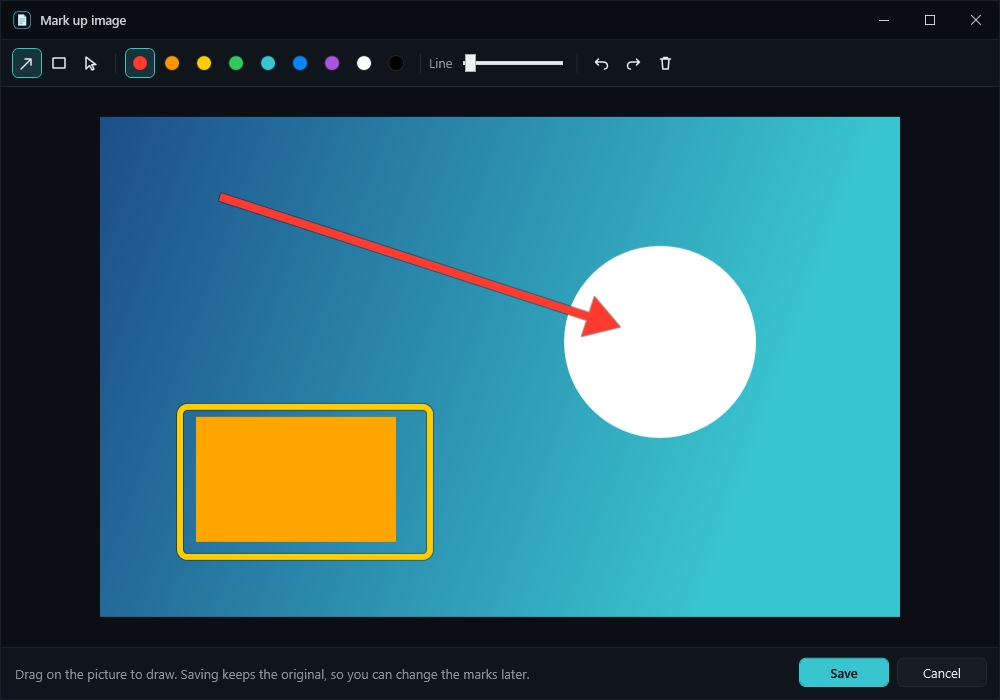
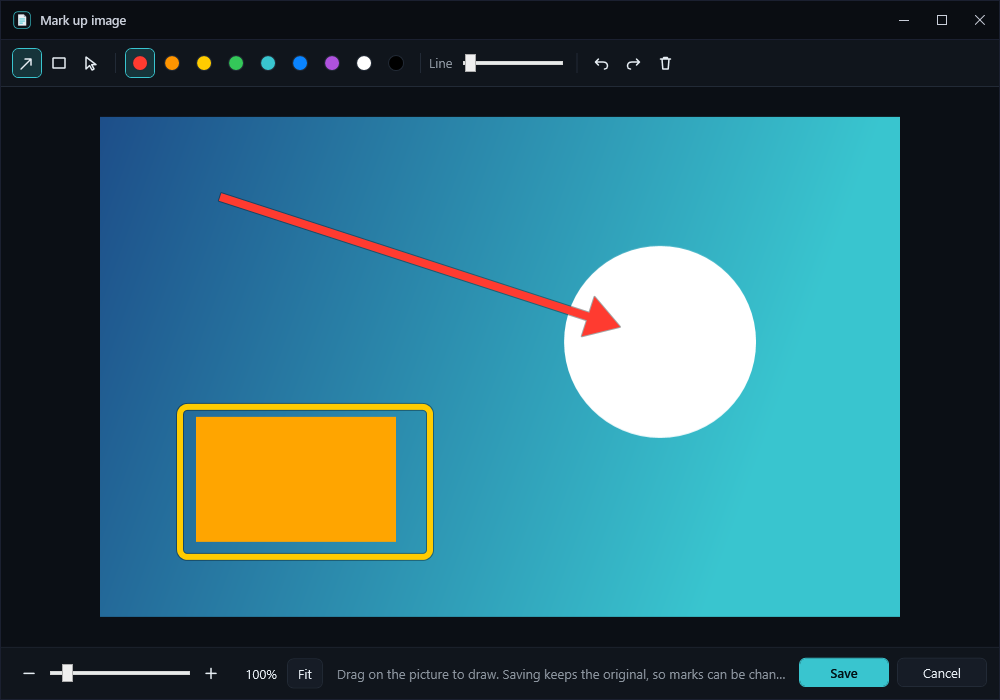
1.8.0: new notes date each day's entries by default (setting); zoom bar, Ctrl+wheel and Fit in the image editor; folder shown bold in the accent colour in search results

Changed region(s): [[0.031, 0.93, 0.775, 0.99]]

diff --git a/Views/MainView.xaml b/Views/MainView.xaml
@@ -15,7 +15,12 @@
                     <Path DockPanel.Dock="Left" Visibility="{Binding FolderGlyph}" Data="M1.5,4 L1.5,13 L14.5,13 L14.5,5.5 L7.5,5.5 L6,3.5 L1.5,3.5 Z" Stroke="{DynamicResource Accent}" StrokeThickness="1.3" Width="16" Height="16" Margin="0,0,6,0" VerticalAlignment="Center" Stretch="None"/>
                     <v:HighlightText Source="{Binding Title}" Terms="{Binding Terms}" FontWeight="SemiBold" FontSize="13.5" TextTrimming="CharacterEllipsis"/>
                 </DockPanel>
-                <TextBlock Text="{Binding Meta}" Foreground="{DynamicResource Faint}" FontSize="11" Margin="0,1,0,2" TextTrimming="CharacterEllipsis"/>
+                <DockPanel Margin="0,3,0,3">
+                    <TextBlock DockPanel.Dock="Right" Text="{Binding WhenText}" Foreground="{DynamicResource Faint}" FontSize="11" Margin="10,0,0,0" VerticalAlignment="Center"/>
+                    <Path DockPanel.Dock="Left" Data="M1.5,4 L1.5,13 L14.5,13 L14.5,5.5 L7.5,5.5 L6,3.5 L1.5,3.5 Z" Stroke="{DynamicResource Accent}" StrokeThickness="1.3" Width="16" Height="16" Margin="0,0,5,0" VerticalAlignment="Center" Stretch="None"/>
+                    <TextBlock DockPanel.Dock="Left" Text="{Binding Place}" Foreground="{DynamicResource Accent}" FontWeight="SemiBold" FontSize="12.5" TextTrimming="CharacterEllipsis" VerticalAlignment="Center"/>
+                    <TextBlock Text="{Binding Extra}" Visibility="{Binding ExtraShown}" Foreground="{DynamicResource Dim}" FontSize="12" Margin="8,0,0,0" TextTrimming="CharacterEllipsis" VerticalAlignment="Center"/>
+                </DockPanel>
                 <v:HighlightText Source="{Binding Snippet}" Terms="{Binding Terms}" Foreground="{DynamicResource Dim}" FontSize="12" TextWrapping="Wrap" MaxHeight="34" TextTrimming="CharacterEllipsis"/>
             </StackPanel>
         </DataTemplate>

diff --git a/Themes/Controls.xaml b/Themes/Controls.xaml
@@ -241,6 +241,23 @@
         </Style.Triggers>
     </Style>
 
+    <!-- a scroll area with no light corner where the two scroll bars meet (the image editor's picture) -->
+    <Style x:Key="QuietScrollViewer" TargetType="{x:Type ScrollViewer}">
+        <Setter Property="Template">
+            <Setter.Value>
+                <ControlTemplate TargetType="{x:Type ScrollViewer}">
+                    <Grid Background="{TemplateBinding Background}">
+                        <Grid.ColumnDefinitions><ColumnDefinition Width="*"/><ColumnDefinition Width="Auto"/></Grid.ColumnDefinitions>
+                        <Grid.RowDefinitions><RowDefinition Height="*"/><RowDefinition Height="Auto"/></Grid.RowDefinitions>
+                        <ScrollContentPresenter x:Name="PART_ScrollContentPresenter" CanContentScroll="{TemplateBinding CanContentScroll}" Margin="{TemplateBinding Padding}"/>
+                        <ScrollBar x:Name="PART_VerticalScrollBar" Grid.Column="1" Value="{TemplateBinding VerticalOffset}" Maximum="{TemplateBinding ScrollableHeight}" ViewportSize="{TemplateBinding ViewportHeight}" Visibility="{TemplateBinding ComputedVerticalScrollBarVisibility}"/>
+                        <ScrollBar x:Name="PART_HorizontalScrollBar" Grid.Row="1" Orientation="Horizontal" Value="{TemplateBinding HorizontalOffset}" Maximum="{TemplateBinding ScrollableWidth}" ViewportSize="{TemplateBinding ViewportWidth}" Visibility="{TemplateBinding ComputedHorizontalScrollBarVisibility}"/>
+                    </Grid>
+                </ControlTemplate>
+            </Setter.Value>
+        </Setter>
+    </Style>
+
     <!-- lists -->
     <Style TargetType="{x:Type ListBox}" BasedOn="{StaticResource BaseControl}">
         <Setter Property="Background" Value="Transparent"/>

diff --git a/Images/MarkupWindow.cs b/Images/MarkupWindow.cs
@@ -46,8 +46,22 @@ public sealed class MarkupWindow : Window
         RenderOptions.SetBitmapScalingMode(img, BitmapScalingMode.HighQuality);
         picture.Children.Add(img);
         picture.Children.Add(_layer);
-        var view = new Viewbox { Child = picture, Stretch = Stretch.Uniform, StretchDirection = StretchDirection.DownOnly, Margin = new Thickness(16) };
-        var stage = new Border { Child = view };
+        // Zoom: the picture scaled in a scrolling area (fit to the window at first; zoom bar, Ctrl+wheel, Ctrl +/-/0).
+        picture.LayoutTransform = _scale;
+        _picture = picture;
+        var holder = new Grid { HorizontalAlignment = HorizontalAlignment.Center, VerticalAlignment = VerticalAlignment.Center, Margin = new Thickness(Edge) };
+        holder.Children.Add(picture);
+        _scroll = new ScrollViewer { Content = holder, HorizontalScrollBarVisibility = ScrollBarVisibility.Auto, VerticalScrollBarVisibility = ScrollBarVisibility.Auto, Focusable = false };
+        _scroll.SetResourceReference(StyleProperty, "QuietScrollViewer");
+        _scroll.Loaded += (_, _) => Fit();
+        _scroll.SizeChanged += (_, _) => { if (_fitted) Fit(); };
+        _scroll.PreviewMouseWheel += (_, e) =>
+        {
+            if (!Keyboard.Modifiers.HasFlag(ModifierKeys.Control)) return;
+            ZoomAt(_scale.ScaleX * (e.Delta > 0 ? 1.2 : 1 / 1.2), e.GetPosition(_picture), e.GetPosition(_scroll));
+            e.Handled = true;
+        };
+        var stage = new Border { Child = _scroll };
         stage.SetResourceReference(Border.BackgroundProperty, "EditorBg");
 
         var bar = new WrapPanel { Margin = new Thickness(10, 8, 10, 8) };
@@ -88,11 +102,28 @@ public sealed class MarkupWindow : Window
         var buttons = new StackPanel { Orientation = Orientation.Horizontal, HorizontalAlignment = HorizontalAlignment.Right, Margin = new Thickness(12, 10, 12, 12) };
         buttons.Children.Add(save);
         buttons.Children.Add(cancel);
-        var hint = new TextBlock { Text = "Drag on the picture to draw. Saving keeps the original, so you can change the marks later.", VerticalAlignment = VerticalAlignment.Center, Margin = new Thickness(14, 0, 0, 0), TextTrimming = TextTrimming.CharacterEllipsis };
+        var hint = new TextBlock { Text = "Drag on the picture to draw. Saving keeps the original, so marks can be changed later.", VerticalAlignment = VerticalAlignment.Center, Margin = new Thickness(14, 0, 0, 0), TextTrimming = TextTrimming.CharacterEllipsis };
         hint.SetResourceReference(TextBlock.ForegroundProperty, "Dim");
+
+        // The zoom bar: out, slider, in, the percentage, Fit.
+        _zoomSlider = new Slider { Minimum = MinZoom, Maximum = MaxZoom, Width = 150, VerticalAlignment = VerticalAlignment.Center, Value = 1, ToolTip = "Zoom (Ctrl + mouse wheel)" };
+        _zoomSlider.ValueChanged += (_, e) => { if (!_zoomSync) { _fitted = false; SetZoom(e.NewValue); } };
+        _zoomText = new TextBlock { Width = 44, TextAlignment = TextAlignment.Right, VerticalAlignment = VerticalAlignment.Center, Margin = new Thickness(6, 0, 4, 0) };
+        _zoomText.SetResourceReference(TextBlock.ForegroundProperty, "Text");
+        var fit = new Button { Content = "Fit", Padding = new Thickness(10, 3, 10, 3), Margin = new Thickness(6, 0, 0, 0), ToolTip = "Fit the picture to the window (Ctrl+0)" };
+        fit.Click += (_, _) => Fit();
+        var zoomBar = new StackPanel { Orientation = Orientation.Horizontal, Margin = new Thickness(12, 0, 0, 0), VerticalAlignment = VerticalAlignment.Center };
+        zoomBar.Children.Add(Act("Zoom out (Ctrl+-)", "M3,8 L13,8", () => ZoomStep(1 / 1.25)));
+        zoomBar.Children.Add(_zoomSlider);
+        zoomBar.Children.Add(Act("Zoom in (Ctrl+=)", "M3,8 L13,8 M8,3 L8,13", () => ZoomStep(1.25)));
+        zoomBar.Children.Add(_zoomText);
+        zoomBar.Children.Add(fit);
+
         var foot = new DockPanel();
         DockPanel.SetDock(buttons, Dock.Right);
+        DockPanel.SetDock(zoomBar, Dock.Left);
         foot.Children.Add(buttons);
+        foot.Children.Add(zoomBar);
         foot.Children.Add(hint);
 
         var top = new Border { Child = bar, BorderThickness = new Thickness(0, 0, 0, 1) };
@@ -117,6 +148,56 @@ public sealed class MarkupWindow : Window
         PreviewKeyDown += OnKey;
     }
 
+    private const double MinZoom = 0.05, MaxZoom = 8, Edge = 16;
+    private readonly ScaleTransform _scale = new(1, 1);
+    private ScrollViewer _scroll = null!;
+    private FrameworkElement _picture = null!;
+    private Slider _zoomSlider = null!;
+    private TextBlock _zoomText = null!;
+    private bool _fitted = true, _zoomSync;
+
+    /// <summary>How big the picture is shown (1 = actual pixels).</summary>
+    public double Zoom => _scale.ScaleX;
+
+    public void SetZoom(double z)
+    {
+        z = Math.Clamp(z, MinZoom, MaxZoom);
+        _scale.ScaleX = _scale.ScaleY = z;
+        _zoomSync = true;
+        _zoomSlider.Value = z;
+        _zoomSync = false;
+        _zoomText.Text = $"{z * 100:0}%";
+        // Sharp pixels when zoomed in a lot, smooth when shown smaller.
+        RenderOptions.SetBitmapScalingMode(_picture, z >= 3 ? BitmapScalingMode.NearestNeighbor : BitmapScalingMode.HighQuality);
+    }
+
+    /// <summary>The whole picture in the window (never bigger than its actual size).</summary>
+    public void Fit()
+    {
+        var w = (_scroll.ViewportWidth > 0 ? _scroll.ViewportWidth : _scroll.ActualWidth) - Edge * 2;
+        var h = (_scroll.ViewportHeight > 0 ? _scroll.ViewportHeight : _scroll.ActualHeight) - Edge * 2;
+        if (w <= 0 || h <= 0) return;
+        SetZoom(Math.Min(1, Math.Min(w / _original.PixelWidth, h / _original.PixelHeight)));
+        _fitted = true;
+    }
+
+    private void ZoomStep(double factor)
+    {
+        var mid = new Point(_scroll.ViewportWidth / 2, _scroll.ViewportHeight / 2);
+        ZoomAt(_scale.ScaleX * factor, _scroll.TranslatePoint(mid, _picture), mid);
+    }
+
+    /// <summary>Zooms keeping the picture point under the mouse (or the middle) where it is.</summary>
+    private void ZoomAt(double z, Point onPicture, Point inView)
+    {
+        _fitted = false;
+        SetZoom(z);
+        _scroll.UpdateLayout();
+        var now = _picture.TranslatePoint(onPicture, _scroll);
+        _scroll.ScrollToHorizontalOffset(_scroll.HorizontalOffset + now.X - inView.X);
+        _scroll.ScrollToVerticalOffset(_scroll.VerticalOffset + now.Y - inView.Y);
+    }
+
     /// <summary>A line width that reads well at this picture's size.</summary>
     private double DefaultWidth() => Math.Clamp(Math.Round(Math.Max(_original.PixelWidth, _original.PixelHeight) / 220.0), 3, 18);
 
@@ -126,6 +207,9 @@ public sealed class MarkupWindow : Window
         if (ctrl && e.Key == Key.Z) { Undo(); e.Handled = true; }
         else if (ctrl && e.Key == Key.Y) { Redo(); e.Handled = true; }
         else if (ctrl && e.Key == Key.S) { SaveAndClose(); e.Handled = true; }
+        else if (ctrl && (e.Key == Key.OemPlus || e.Key == Key.Add)) { ZoomStep(1.25); e.Handled = true; }
+        else if (ctrl && (e.Key == Key.OemMinus || e.Key == Key.Subtract)) { ZoomStep(1 / 1.25); e.Handled = true; }
+        else if (ctrl && (e.Key == Key.D0 || e.Key == Key.NumPad0)) { Fit(); e.Handled = true; }
         else if (!ctrl && e.Key == Key.A) { SetTool("arrow"); e.Handled = true; }
         else if (!ctrl && e.Key == Key.B) { SetTool("box"); e.Handled = true; }
         else if (!ctrl && e.Key == Key.V) { SetTool("select"); e.Handled = true; }

diff --git a/SelfTest.cs b/SelfTest.cs
@@ -543,6 +543,13 @@ public static class SelfTest
         callB.RaiseEvent(new RoutedEventArgs(System.Windows.Controls.Primitives.ButtonBase.ClickEvent));
         Ok(called, "the green button calls");
 
+        // New notes date each day's entries unless that's turned off in Settings.
+        settings.DailyByDefault = true;
+        var fresh = store.NewNote(null, "", """{"v":1,"daily":1,"b":[]}""", "");
+        view.OpenNote(fresh, []);
+        Ok(view.DailyOn, "new notes start with date lines on");
+        view.OpenNote(id, []);
+
         // Collapse all / Expand all, remembered right away.
         view.ToggleAllFolders();
         var collapseBtn = (Button)view.FindName("CollapseAllButton");
@@ -763,8 +770,15 @@ public static class SelfTest
         var host = new Border { Child = content };
         host.SetResourceReference(Border.BackgroundProperty, "WindowBg");
         using var src = Host(host, 1000, 700);
-        Pump(200);
+        Pump(250);
+        Ok(w.Zoom <= 1.0001 && w.Zoom > 0.5, $"the picture opens fitted to the window, never past actual size ({w.Zoom * 100:0}%)");
         Shot(host, Path.Combine(outDir, "markup.png"));
+        w.SetZoom(2);
+        Pump(150);
+        Ok(Math.Abs(w.Zoom - 2) < 0.001, "zooming in to 200%");
+        Shot(host, Path.Combine(outDir, "markup-zoomed.png"));
+        w.Fit();
+        Ok(w.Zoom <= 1.0001, "Fit goes back to the whole picture");
         w.Close();
     }
 

diff --git a/Views/MainView.Search.cs b/Views/MainView.Search.cs
@@ -137,6 +137,9 @@ public partial class MainView
                 IsFolder = true,
                 Title = f.Name,
                 Meta = "Folder · " + f.Path + " · " + (notes == 1 ? "1 note" : $"{notes} notes"),
+                Place = f.Parent is { IsFolder: true } ? f.Parent.Path : "Top level",
+                Extra = "Folder",
+                WhenText = notes == 1 ? "1 note" : $"{notes} notes",
                 Snippet = "",
                 Terms = terms,
                 TagIcons = f.TagIcons,
@@ -196,6 +199,9 @@ public partial class MainView
                         Title = h.Title,
                         Updated = h.Updated,
                         Meta = h.Tab.Length > 0 ? $"{FolderPath(h.Cat)} · {h.Tab} tab · {When(h.Updated)}" : $"{FolderPath(h.Cat)} · {When(h.Updated)}",
+                        Place = FolderPath(h.Cat),
+                        Extra = h.Tab.Length > 0 ? $"· {h.Tab} tab" : "",
+                        WhenText = When(h.Updated),
                         Snippet = h.Snippet,
                         Terms = terms,
                         TagIcons = Chips(h.Tags),

diff --git a/Views/SettingsWindow.cs b/Views/SettingsWindow.cs
@@ -64,6 +64,7 @@ public sealed class SettingsWindow : Window
         body.Children.Add(fontRow);
         body.Children.Add(Switch("Check spelling", settings.SpellCheck, v => { _s.SpellCheck = v; _s.Save(); SpellCheck.SetIsEnabled(_view.Editor, v); }));
         body.Children.Add(Switch("Show line numbers", settings.LineNumbers, v => { if (_s.LineNumbers != v) _view.ToggleLineNumbers(); }));
+        body.Children.Add(Switch("New notes date each day's entries", settings.DailyByDefault, v => { _s.DailyByDefault = v; _s.Save(); }));
         body.Children.Add(Switch("Line numbers match each line's text size", settings.LineNumbersMatchSize, v => { _s.LineNumbersMatchSize = v; _s.Save(); _view.Gutter.MatchTextSize = v; _view.Gutter.Reset(); }));
         body.Children.Add(Switch("Outline blurred text (easier to spot)", settings.BlurOutline, v => { _s.BlurOutline = v; _s.Save(); _view.Blur.Outline = v; _view.Blur.InvalidateVisual(); }));
 

diff --git a/Views/ViewModels.cs b/Views/ViewModels.cs
@@ -100,6 +100,12 @@ public sealed class NoteItem : Observable
     public string? Cat { get; set; }
     public string Title { get => _title; set => Set(ref _title, string.IsNullOrWhiteSpace(value) ? "Untitled" : value); }
     public string Meta { get => _meta; set => Set(ref _meta, value); }
+    /// <summary>Where it is (folder path), shown bold in the accent colour in search results.</summary>
+    public string Place { get; init; } = "";
+    /// <summary>The tab the words were found in, or a folder's note count.</summary>
+    public string Extra { get; init; } = "";
+    public string WhenText { get; init; } = "";
+    public Visibility ExtraShown => Extra.Length > 0 ? Visibility.Visible : Visibility.Collapsed;
     public string Snippet { get => _snippet; set => Set(ref _snippet, value); }
     public IReadOnlyList<string> Terms { get; init; } = [];
     public IReadOnlyList<TagChip> TagIcons { get; init; } = [];

diff --git a/Data/AppSettings.cs b/Data/AppSettings.cs
@@ -32,6 +32,8 @@ public sealed class AppSettings
     public bool Focus { get; set; }
     /// <summary>Writing mode stays on top of other windows (the pin in its title bar).</summary>
     public bool PinOnTop { get; set; }
+    /// <summary>New notes start with "Date each day's entries" on.</summary>
+    public bool DailyByDefault { get; set; } = true;
     /// <summary>A thin outline around blurred text, so it's easy to spot in a long note.</summary>
     public bool BlurOutline { get; set; } = true;
     public string? LastNote { get; set; }

diff --git a/Views/MainView.xaml.cs b/Views/MainView.xaml.cs
@@ -568,7 +568,7 @@ public partial class MainView : UserControl
     {
         SaveNow();
         if (Selected?.InTrash == true) folder = null;
-        var id = _store.NewNote(folder);
+        var id = _store.NewNote(folder, "", _settings.DailyByDefault ? """{"v":1,"daily":1,"b":[]}""" : "");
         if (folder is not null && _folders.TryGetValue(folder, out var f)) f.IsExpanded = true;
         BuildTree();
         OpenNote(id, []);

diff --git a/README.md b/README.md
@@ -19,7 +19,7 @@ each line's size, a distraction-free writing mode, dark and light themes, and en
   otherwise); the title bar gives up its less-used buttons as it narrows. Writing mode and normal mode each remember
   their own size, position and maximized state, so F11 jumps between your two layouts in one move. The pin in
   writing mode's title bar keeps it on top of other windows, like a sticky note.
-- **Date each day's entries** (per note, off until you turn it on: the calendar button on the toolbar, or right-click
+- **Date each day's entries** (per note; new notes start with it on, which Settings → Text can change: the calendar button on the toolbar, or right-click
   the note): for running logs. The first thing you write on a new day gets a line across with the day's date above it.
   Editing older text doesn't add one. Dates are searchable (`2026-11-15` or the written-out date).
 - **Tabs inside a note** (`Ctrl+T`, or *+ Tab* under the title): each tab is its own page. Double-click a tab to
@@ -43,7 +43,7 @@ each line's size, a distraction-free writing mode, dark and light themes, and en
   line's text size instead. Wrapped lines keep one number.
 - **Pictures:** paste a screenshot, drop or insert a file. Drag the corner to resize (it keeps its shape);
   right-click for actual size, half size or fit to the page.
-- **Mark-up:** double-click a picture to draw arrows and boxes on it, in any colour and thickness (Shift for a square;
+- **Mark-up:** double-click a picture to draw arrows and boxes on it (zoom bar, Ctrl + wheel, Fit), in any colour and thickness (Shift for a square;
   move or delete marks later). The original is kept, so marks can always be changed or removed.
 - **Dark and light** themes, switched from the title bar.
 - **Sync** (Settings → Sync): notes, folders and pictures stay the same on every PC. Everything is encrypted on the
